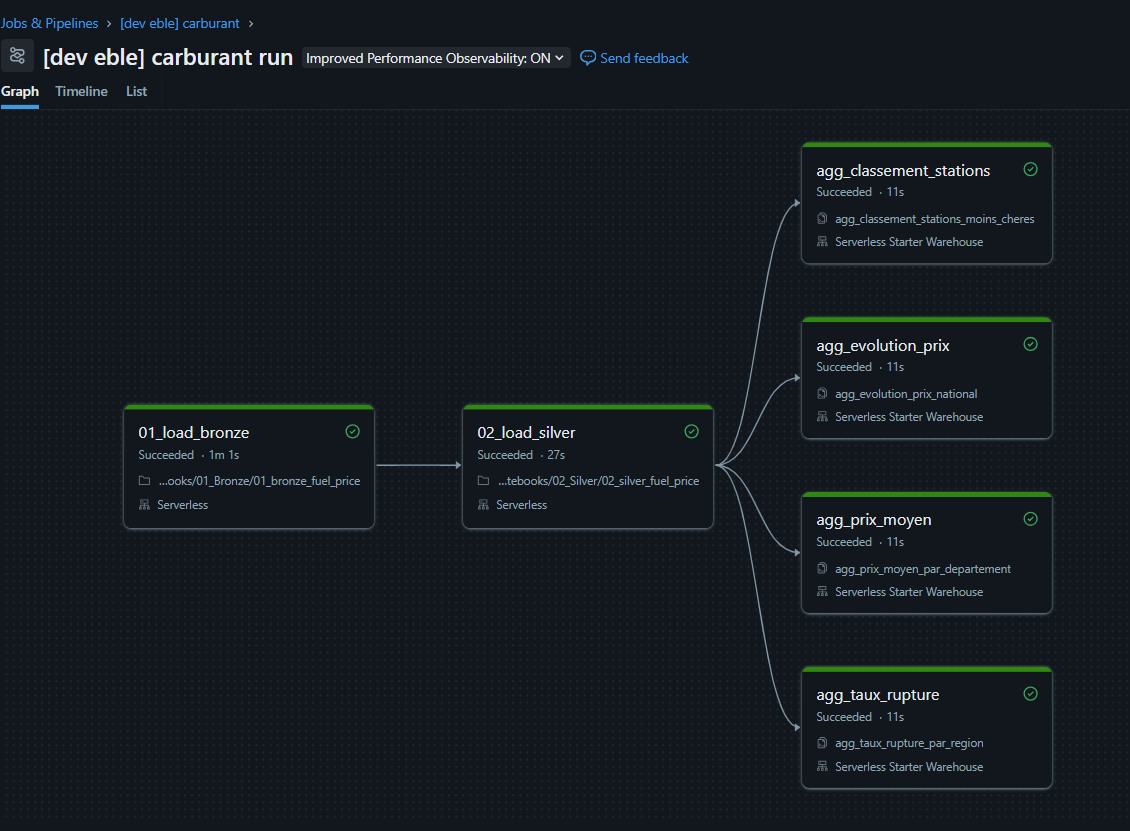
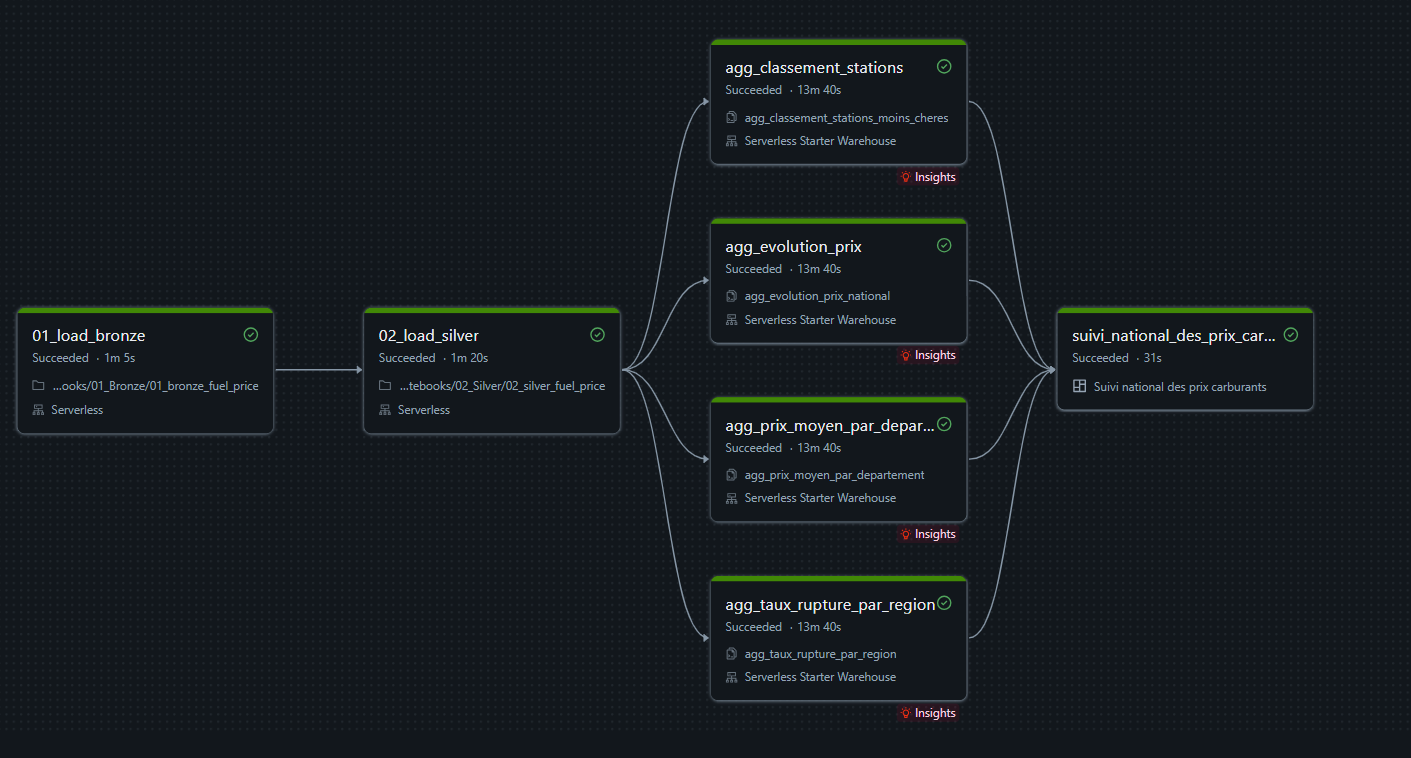
readme.md has added

Changed region(s): [[0.0, 0.0, 0.9292, 0.7282], [0.4956, 0.7586, 0.9292, 0.971]]

diff --git a/README.md b/README.md
@@ -15,35 +15,6 @@ Ce projet transforme ce flux brut en un modèle de données prêt pour l'analyse
 ### Source
 - [data.economie.gouv.fr](https://data.economie.gouv.fr/) - Prix des carburants en France, flux instantané V2
 
-## 🏗 Architecture Médaillon
-
-![Architecture Médaillon](docs/fuel_prices_medaillon_architecture.png)
-
-Le pipeline suit une architecture en médaillon sur 3 couches Delta Lake, orchestrées par un job Databricks (`resources/carburant.job.yml`) :
-- **Bronze** (`fuel_price_etl/notebooks/01_Bronze`) : ingestion historisée des tables brutes (`brze_*` : dim_carburant, dim_geo, dim_station, fait_prix, fait_rupture) avec ajout d'une colonne `date_ingestion` pour tracer chaque chargement.
-- **Silver** (`fuel_price_etl/notebooks/02_Silver`) : nettoyage et fiabilisation des données (`slv_*`) - déduplication par clé métier, désimbrication des colonnes `services`, application des règles de qualité et d'intégrité référentielle (ex. rattachement des stations à un département existant dans `dim_geo`).
-- **Gold** (`fuel_price_etl/sql/03_Gold`) : requêtes SQL d'agrégation (`agg_*.dbquery.ipynb`) exécutées en parallèle après le Silver - prix moyen par département, évolution des prix au niveau national, classement des stations les moins chères, taux de rupture par région.
-- **Dashboard** (`fuel_price_etl/dashboard`) : dashboard Databricks (`Suivi national des prix carburants.lvdash.json`) branché sur les tables Gold, publié dans le job via une tâche `dashboard_task` déclenchée une fois les 4 agrégations terminées.
-
-Le module `src/carburants` (packagé via `pyproject.toml`) fournit les utilitaires Python partagés (`fuel_price_utils.py`), le notebook de contrôle qualité (`00_data_quality.ipynb`) et le point d'entrée `main.py`, montés dans le pipeline DAB (`resources/carburant_etl.pipeline.yml`).
-
-## ✅ Résultat d'exécution du pipeline
-
-![Exécution du job carburant](docs/carburant_run.png)
-
-Le job `carburant` orchestre l'ensemble du pipeline : chargement Bronze (`01_load_bronze`), chargement Silver (`02_load_silver`), les 4 agrégations Gold exécutées en parallèle (`agg_classement_stations`, `agg_evolution_prix`, `agg_prix_moyen`, `agg_taux_rupture`), puis la mise à jour du dashboard (`suivi_national_des_prix_carburants`) une fois ces agrégations terminées.
-
-## 🔄 CI/CD
-
-Le déploiement et l'exécution du pipeline sont automatisés via GitHub Actions : à chaque `git push` sur la branche `dev`, le workflow valide le bundle (`databricks bundle validate`), le déploie sur l'environnement Databricks correspondant, puis déclenche l'exécution du job `carburant`.
-
-```yaml
-on:
-  push:
-    branches:
-      - 'dev'
-```
-
 ## 📁 Architecture du projet
 
 ```
@@ -93,6 +64,45 @@ fuel-prices-lakehouse/
 ├── README.md
 └── .gitignore
 ```
+
+## 🏗 Architecture Médaillon
+
+![Architecture Médaillon](docs/fuel_prices_medaillon_architecture.png)
+
+Le pipeline suit une architecture en médaillon sur 3 couches Delta Lake, orchestrées par un job Databricks (`resources/carburant.job.yml`) :
+- **Bronze** (`fuel_price_etl/notebooks/01_Bronze`) : ingestion historisée des tables brutes (`brze_*` : dim_carburant, dim_geo, dim_station, fait_prix, fait_rupture) avec ajout d'une colonne `date_ingestion` pour tracer chaque chargement.
+- **Silver** (`fuel_price_etl/notebooks/02_Silver`) : nettoyage et fiabilisation des données (`slv_*`) - déduplication par clé métier, désimbrication des colonnes `services`, application des règles de qualité et d'intégrité référentielle (ex. rattachement des stations à un département existant dans `dim_geo`).
+- **Gold** (`fuel_price_etl/sql/03_Gold`) : requêtes SQL d'agrégation (`agg_*.dbquery.ipynb`) exécutées en parallèle après le Silver - prix moyen par département, évolution des prix au niveau national, classement des stations les moins chères, taux de rupture par région.
+- **Dashboard** (`fuel_price_etl/dashboard`) : dashboard Databricks (`Suivi national des prix carburants.lvdash.json`) branché sur les tables Gold, publié dans le job via une tâche `dashboard_task` déclenchée une fois les 4 agrégations terminées.
+
+Le module `src/carburants` (packagé via `pyproject.toml`) fournit les utilitaires Python partagés (`fuel_price_utils.py`), le notebook de contrôle qualité (`00_data_quality.ipynb`) et le point d'entrée `main.py`, montés dans le pipeline DAB (`resources/carburant_etl.pipeline.yml`).
+
+## 🔄 CI/CD
+
+Le déploiement et l'exécution du pipeline sont automatisés via GitHub Actions : à chaque `git push` sur la branche `dev`, le workflow valide le bundle (`databricks bundle validate`), le déploie sur l'environnement Databricks correspondant, puis déclenche l'exécution du job `carburant`.
+
+```yaml
+on:
+  push:
+    branches:
+      - 'dev'
+```
+## 🔄 Résultat du CI/CD Github Actions
+![Déployement du workflow job_update_cd](docs/CI_CD.png)
+
+le workflow GitHub Actions déclenché sur le push `dev` décrit ci-dessus : validation du bundle (`databricks bundle validate`), déploiement sur l'environnement Databricks, puis exécution du job `carburant`.
+
+## ✅ Résultat d'exécution du pipeline
+
+![Exécution du job carburant](docs/carburant_run.png)
+
+Le job `carburant` orchestre l'ensemble du pipeline : chargement Bronze (`01_load_bronze`), chargement Silver (`02_load_silver`), les 4 agrégations Gold exécutées en parallèle (`agg_classement_stations`, `agg_evolution_prix`, `agg_prix_moyen`, `agg_taux_rupture`), puis la mise à jour du dashboard (`suivi_national_des_prix_carburants`) une fois ces agrégations terminées.
+
+## 📊 Résultat du dashboard
+
+![Suivi national des prix carburants](docs/dashboard_carburant.png)
+
+Le dashboard `Suivi national des prix carburants`, branché sur les tables Gold, expose le prix moyen national, le nombre de stations suivies et le taux de rupture, ainsi que l'évolution du prix moyen par type de carburant (Gazole, SP95, SP98, E10, E85, GPLc) dans le temps. D'autres KPI pourront être ajoutés au fil du temps.
 
 ## ⚙ Installation
 
